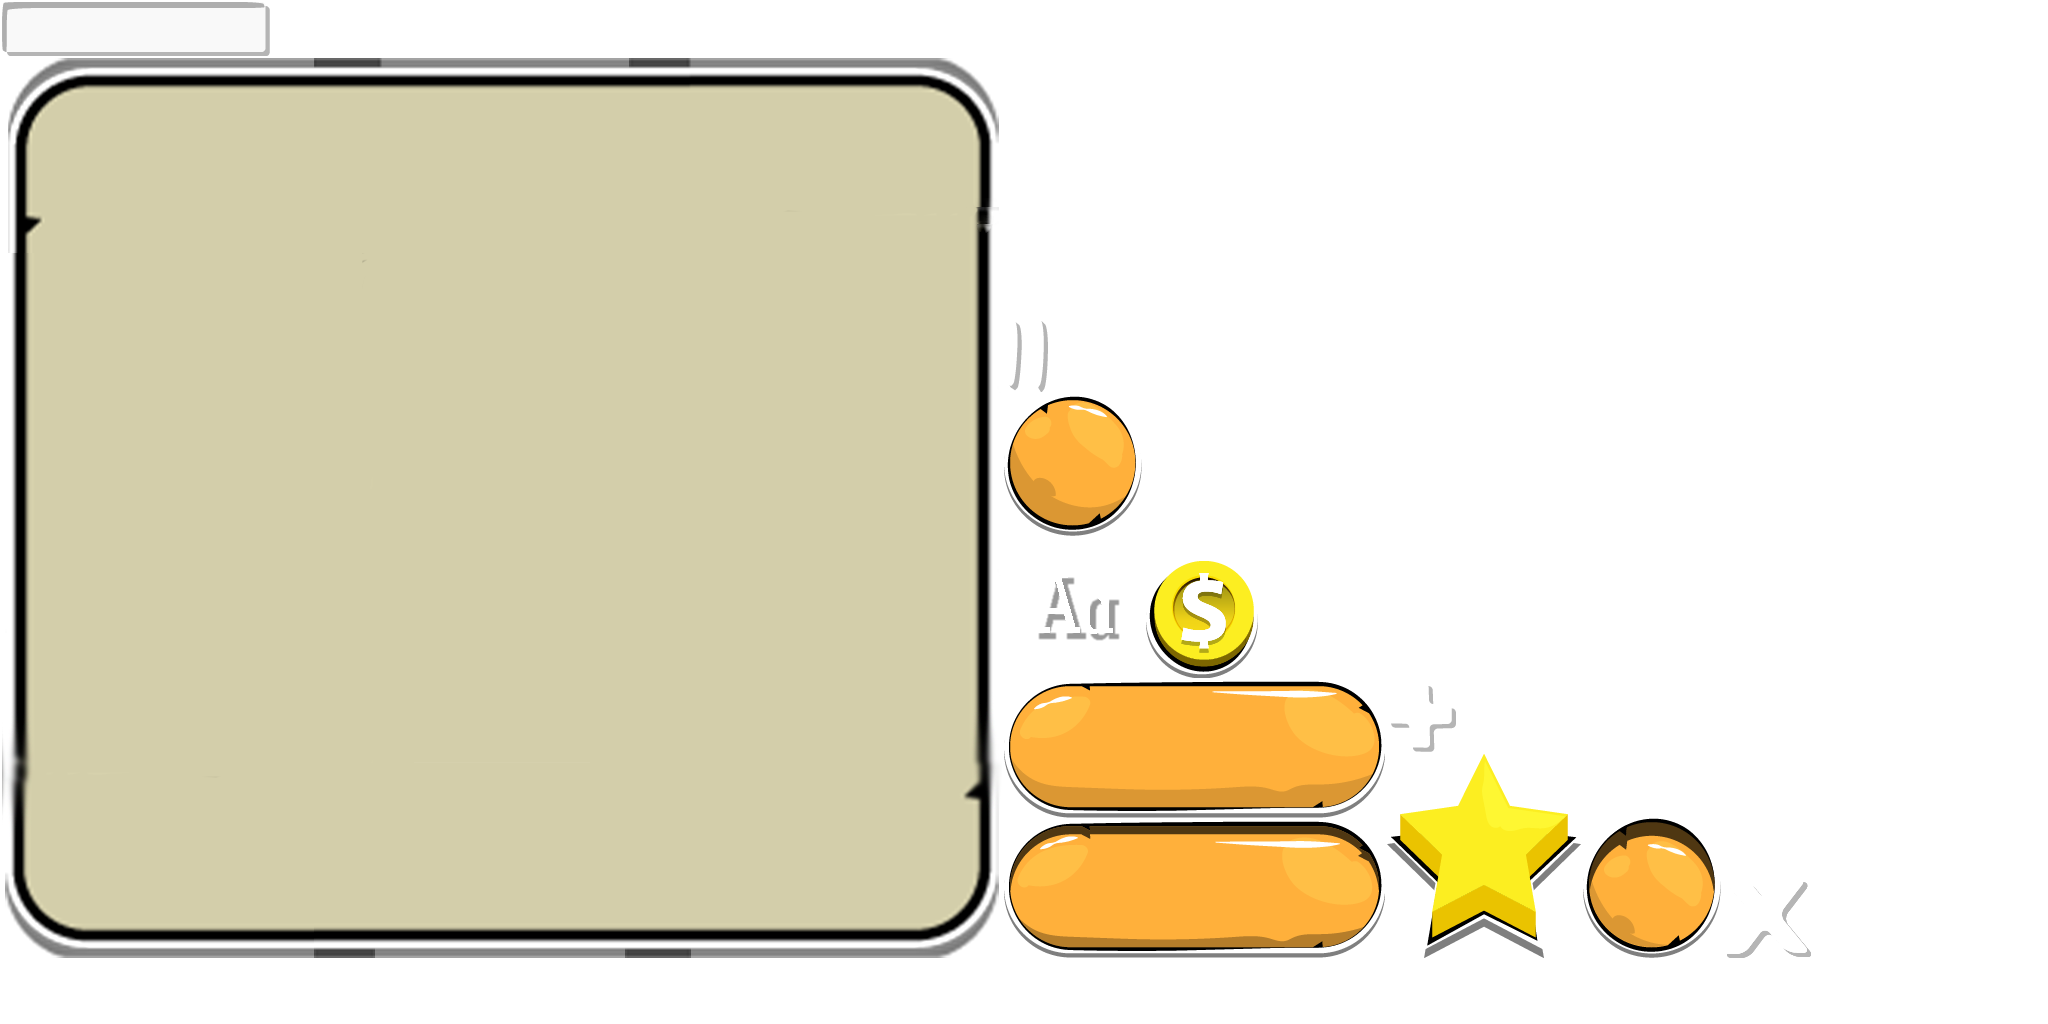
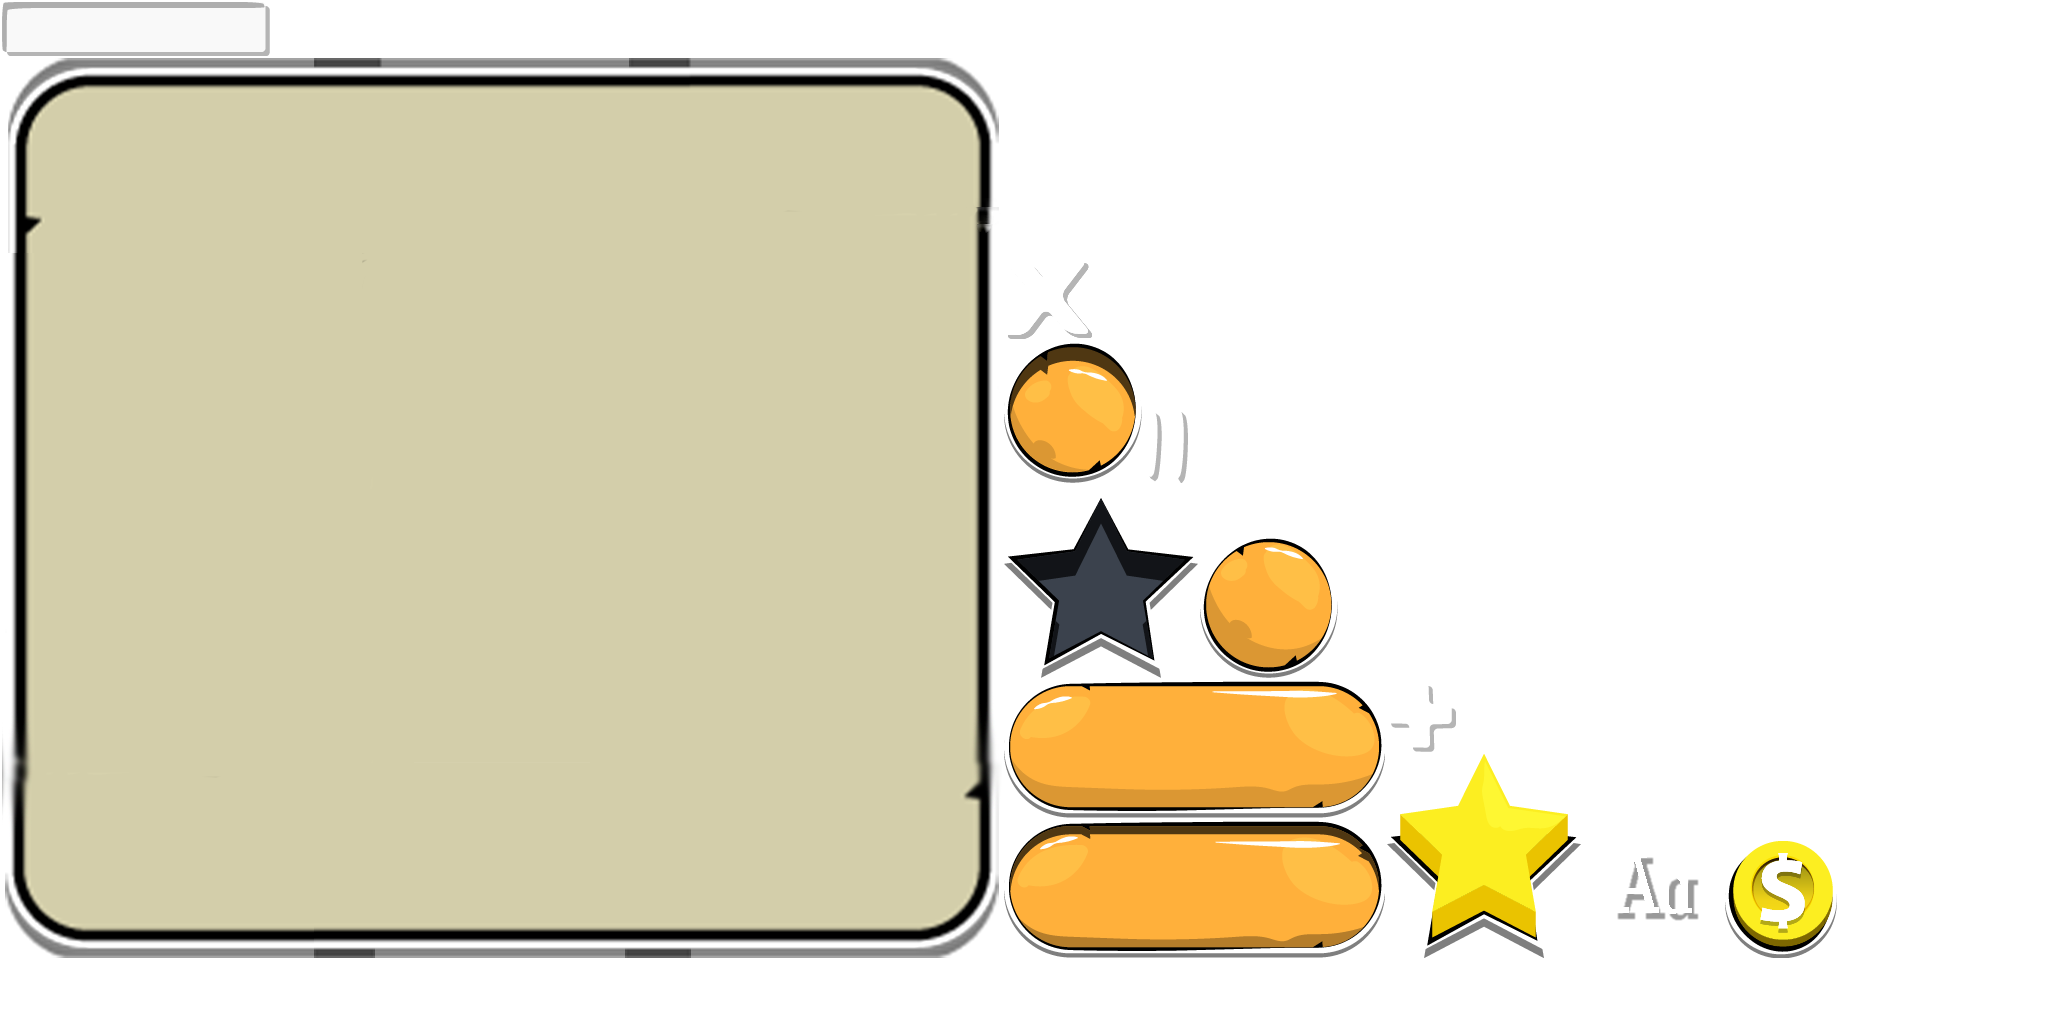
The game gives an assessment.

Changed region(s): [[0.4688, 0.3125, 0.6562, 0.6562], [0.75, 0.7812, 0.9062, 0.9375]]

diff --git a/core/src/com/vb/ilt/ui/stages/AssessmentStage.java b/core/src/com/vb/ilt/ui/stages/AssessmentStage.java
@@ -1,0 +1,123 @@
+package com.vb.ilt.ui.stages;
+
+import com.badlogic.gdx.assets.AssetManager;
+import com.badlogic.gdx.graphics.g2d.SpriteBatch;
+import com.badlogic.gdx.graphics.g2d.TextureRegion;
+import com.badlogic.gdx.scenes.scene2d.Actor;
+import com.badlogic.gdx.scenes.scene2d.Stage;
+import com.badlogic.gdx.scenes.scene2d.ui.Button;
+import com.badlogic.gdx.scenes.scene2d.ui.Image;
+import com.badlogic.gdx.scenes.scene2d.ui.Skin;
+import com.badlogic.gdx.scenes.scene2d.ui.Table;
+import com.badlogic.gdx.scenes.scene2d.ui.TextButton;
+import com.badlogic.gdx.scenes.scene2d.utils.ChangeListener;
+import com.badlogic.gdx.scenes.scene2d.utils.TextureRegionDrawable;
+import com.badlogic.gdx.utils.Logger;
+import com.badlogic.gdx.utils.viewport.Viewport;
+import com.vb.ilt.assets.AssetDescriptors;
+import com.vb.ilt.assets.RegionNames;
+import com.vb.ilt.common.GameManager;
+
+public class AssessmentStage extends Stage{
+    private static final Logger log = new Logger(ConversationStage.class.getName(), Logger.DEBUG);
+
+    private final Skin skin;
+    private Table mainTable;
+    private Table buttonTable;
+
+    private TextureRegion assessmentPanel;
+    private TextureRegion background;
+    private TextureRegion star;
+    private TextureRegion emptyStar;
+
+
+    public AssessmentStage(Viewport viewport, SpriteBatch batch, AssetManager assetManager) {
+        super(viewport, batch);
+        this.skin = assetManager.get(AssetDescriptors.UI_SKIN);
+        this.assessmentPanel = assetManager.get(AssetDescriptors.PANELS).findRegion(RegionNames.ASSESSMENT_PANEL);
+        this.background = assetManager.get(AssetDescriptors.PANELS).findRegion(RegionNames.PAUSE_BACKGROUND);
+        this.star = assetManager.get(AssetDescriptors.UI_SKIN).getRegion(RegionNames.STAR);
+        this.emptyStar = assetManager.get(AssetDescriptors.UI_SKIN).getRegion(RegionNames.EMPTY_STAR);
+        init();
+    }
+
+    private void init(){
+
+        mainTable = new Table();
+        mainTable.defaults().pad(20f);
+
+        //this.npcText.setFontScale(2);
+
+        Table container = new Table();
+
+        buttonTable = new Table();
+        buttonTable.pad(20f);
+
+        Button exitButton = new TextButton("QUIT", skin);
+
+        exitButton.addListener(new ChangeListener() {
+            @Override
+            public void changed(ChangeEvent event, Actor actor) {
+                GameManager.INSTANCE.setStateQuit();
+            }
+        });
+        buttonTable.add(exitButton);
+        buttonTable.pack();
+
+
+        mainTable.setBackground(new TextureRegionDrawable(assessmentPanel));
+        mainTable.center();
+        mainTable.setSize(720f, 400f);
+
+        mainTable.pack();
+
+        container.setFillParent(true);
+        container.add(mainTable);
+        container.background(new TextureRegionDrawable(background));
+
+        this.addActor(container);
+    }
+
+    public void setStars(){
+        final int maxScore = GameManager.INSTANCE.getMaxScore();
+        final int score = GameManager.INSTANCE.getScore();
+
+        int stars;
+        int emptyStars;
+
+        Table starsTable = new Table();
+        starsTable.defaults().pad(20f);
+
+        log.info("SCORE: " + score);
+        log.info("MAX_SCORE: " + maxScore);
+
+        if ((float)maxScore * 0.9f < score){
+            stars = 5;
+            emptyStars = 0;
+        }else if((float)maxScore * 0.75f < score){
+            stars = 4;
+            emptyStars = 1;
+        }else if ((float)maxScore * 0.5f < score){
+            stars = 3;
+            emptyStars = 2;
+        }else if ((float)maxScore * 0.3f < score){
+            stars = 2;
+            emptyStars = 3;
+        }else{
+            stars = 1;
+            emptyStars = 4;
+        }
+
+        log.info("STARS: " + stars);
+        log.info("EMPTY_STARS: " + emptyStars);
+        mainTable.add(starsTable).center().padTop(120f).row();
+        mainTable.add(buttonTable).center();
+
+        for (int i = 0; i < stars; i++){
+            starsTable.add(new Image(this.star));
+        }
+        for (int i = 0; i < emptyStars; i++){
+            starsTable.add(new Image(this.emptyStar));
+        }
+    }
+}

diff --git a/core/src/com/vb/ilt/systems/active/FinishSystem.java b/core/src/com/vb/ilt/systems/active/FinishSystem.java
@@ -1,30 +1,50 @@
 package com.vb.ilt.systems.active;
 
+import com.badlogic.ashley.core.EntitySystem;
 import com.badlogic.ashley.core.Family;
-import com.badlogic.ashley.systems.IntervalSystem;
+import com.badlogic.gdx.Gdx;
+import com.badlogic.gdx.assets.AssetManager;
+import com.badlogic.gdx.graphics.g2d.SpriteBatch;
+import com.badlogic.gdx.scenes.scene2d.Stage;
 import com.badlogic.gdx.utils.Queue;
+import com.badlogic.gdx.utils.viewport.Viewport;
 import com.vb.ilt.common.GameManager;
 import com.vb.ilt.entity.components.dialog_model.Conversation;
 import com.vb.ilt.entity.components.npc.StoryComponent;
+import com.vb.ilt.ui.stages.AssessmentStage;
 import com.vb.ilt.util.Mappers;
 
-public class FinishSystem extends IntervalSystem{
+public class FinishSystem extends EntitySystem{
 
     private static final float INTERVAL = 4f;
+    private final Stage finishStage;
+    private float accumulator;
 
     private static final Family FAMILY = Family.all(
             StoryComponent.class
     ).get();
 
-    public FinishSystem() {
-        super(INTERVAL);
+    public FinishSystem(Viewport viewport, SpriteBatch batch, AssetManager assetManager) {
+        this.finishStage = new AssessmentStage(viewport, batch, assetManager);
     }
 
     @Override
-    protected void updateInterval() {
-        Queue<Conversation> conversationQueue = Mappers.STORY.get(getEngine().getEntitiesFor(FAMILY).first()).conversations;
-        if (conversationQueue.size == 0 && GameManager.INSTANCE.isPlaying()){
-            GameManager.INSTANCE.setStateFinished();
+    public void update(float delta) {
+        accumulator += delta;
+        if (GameManager.INSTANCE.isFinished()){
+            finishStage.act();
+            finishStage.draw();
+            Gdx.input.setInputProcessor(finishStage);
+            return;
         }
+        if (accumulator >= INTERVAL){
+            accumulator = 0;
+            Queue<Conversation> conversationQueue = Mappers.STORY.get(getEngine().getEntitiesFor(FAMILY).first()).conversations;
+            if (conversationQueue.size == 0 && GameManager.INSTANCE.isPlaying()){
+                GameManager.INSTANCE.setStateFinished();
+                ((AssessmentStage)finishStage).setStars();
+            }
+        }
+
     }
 }

diff --git a/core/src/com/vb/ilt/screen/game/GameScreen.java b/core/src/com/vb/ilt/screen/game/GameScreen.java
@@ -15,7 +15,6 @@ import com.vb.ilt.assets.AssetDescriptors;
 import com.vb.ilt.common.GameManager;
 import com.vb.ilt.common.TiledMapManager;
 import com.vb.ilt.config.GameConfig;
-import com.vb.ilt.screen.loading.LoadingScreen;
 import com.vb.ilt.screen.menu.MainMenuScreen;
 import com.vb.ilt.systems.active.AnimationSystem;
 import com.vb.ilt.systems.active.AuthorSpeechSystem;
@@ -93,7 +92,7 @@ public class GameScreen extends ScreenAdapter{
 
         engine.addSystem(new EntityFactorySystem(assetManager, batch));
         engine.addSystem(new StartUpSystem(hudViewport, tiledMapManager, String.format(CONVERSATION_PATH_PATTERN, level)));
-        engine.addSystem(new FinishSystem());
+
 
         engine.addSystem(new PlayerControlSystem(hudViewport));
         engine.addSystem(new SoundSystem());
@@ -120,6 +119,7 @@ public class GameScreen extends ScreenAdapter{
 
         engine.addSystem(hudSystem);
         engine.addSystem(new PauseSystem(assetManager, hudViewport, batch, (PauseCallback) hudSystem));
+        engine.addSystem(new FinishSystem(hudViewport, batch, assetManager));
         engine.addSystem(new DebugRenderSystem(viewport, renderer));
 
         engine.addSystem(conversationSystem);
@@ -133,10 +133,12 @@ public class GameScreen extends ScreenAdapter{
     public void render(float delta) {
         GdxUtils.clearScreen();
         engine.update(delta);
-        if (GameManager.INSTANCE.isFinished()) {
-            game.setScreen(new LoadingScreen(game));
-        }else if (GameManager.INSTANCE.isQuit()){
+        if (GameManager.INSTANCE.isQuit()){
             game.setScreen(new MainMenuScreen(game));
+        }else if (GameManager.INSTANCE.isFinished()){
+            engine.getSystem(MovementSystem.class).setProcessing(false);
+            engine.getSystem(PlayerControlSystem.class).setProcessing(false);
+            engine.getSystem(HudSystem.class).setProcessing(false);
         }
     }
 

diff --git a/core/src/com/vb/ilt/assets/RegionNames.java b/core/src/com/vb/ilt/assets/RegionNames.java
@@ -16,9 +16,13 @@ public final class RegionNames {
 
     public static final String AUTHOR_SPEECH = "author";
     public static final String PAUSE_PANEL = "pausePanel";
+    public static final String ASSESSMENT_PANEL = "assessmentPanel";
     public static final String PAUSE_BACKGROUND = "pauseBackground";
     public static final String BACKGROUND = "background";
+
     public static final String COIN = "coin";
+    public static final String STAR = "star";
+    public static final String EMPTY_STAR = "empty-star";
 
     public static final String NPC_SHEPHERD = CharacterType.SHEPHERD.name().toLowerCase();
     public static final String NPC_BLACKSMITH = CharacterType.BLACKSMITH.name().toLowerCase();

diff --git a/core/src/com/vb/ilt/common/GameManager.java b/core/src/com/vb/ilt/common/GameManager.java
@@ -12,6 +12,7 @@ public final class GameManager {
     private static final Logger log = new Logger(GameManager.class.getName(), Logger.DEBUG);
 
     private int currentLevel;
+    private final int maxScore = 24000;
     private int tempScore;
     private int score;
     private final LinkedHashMap<String, String> bigDictionary;
@@ -52,6 +53,14 @@ public final class GameManager {
 
     public void commitTempScoreAmount(){score += tempScore;}
     public void dropTempScore(){tempScore = 0;}
+
+    public int getCurrentLevel() {
+        return currentLevel;
+    }
+
+    public int getMaxScore() {
+        return maxScore;
+    }
 
     public void reset(){
         tempScore = 0;

diff --git a/core/src/com/vb/ilt/ui/tables/ListWithSearchTableBase.java b/core/src/com/vb/ilt/ui/tables/ListWithSearchTableBase.java
@@ -98,7 +98,6 @@ public abstract class ListWithSearchTableBase extends Table implements TextField
         String text = this.search.getText();
         for (Map.Entry<String, String> wordEntry : availableWords.entrySet()){
             if (wordEntry.getValue().contains(text)){
-                System.out.println(wordEntry.getKey() + " : " + wordEntry.getValue());
                 addRowToWords(wordEntry.getKey(), wordEntry.getValue(), this.words);
             }
         }

diff --git a/desktop/src/com/vb/ilt/desktop/DesktopLauncher.java b/desktop/src/com/vb/ilt/desktop/DesktopLauncher.java
@@ -10,7 +10,7 @@ public class DesktopLauncher {
 		LwjglApplicationConfiguration config = new LwjglApplicationConfiguration();
 		config.width = (int)GameConfig.WIDTH;
 		config.height = (int)GameConfig.HEIGHT;
-		config.fullscreen = true;
+		config.fullscreen = false;
 		new LwjglApplication(new InteractiveLangTeacherGame(), config);
 	}
 }
